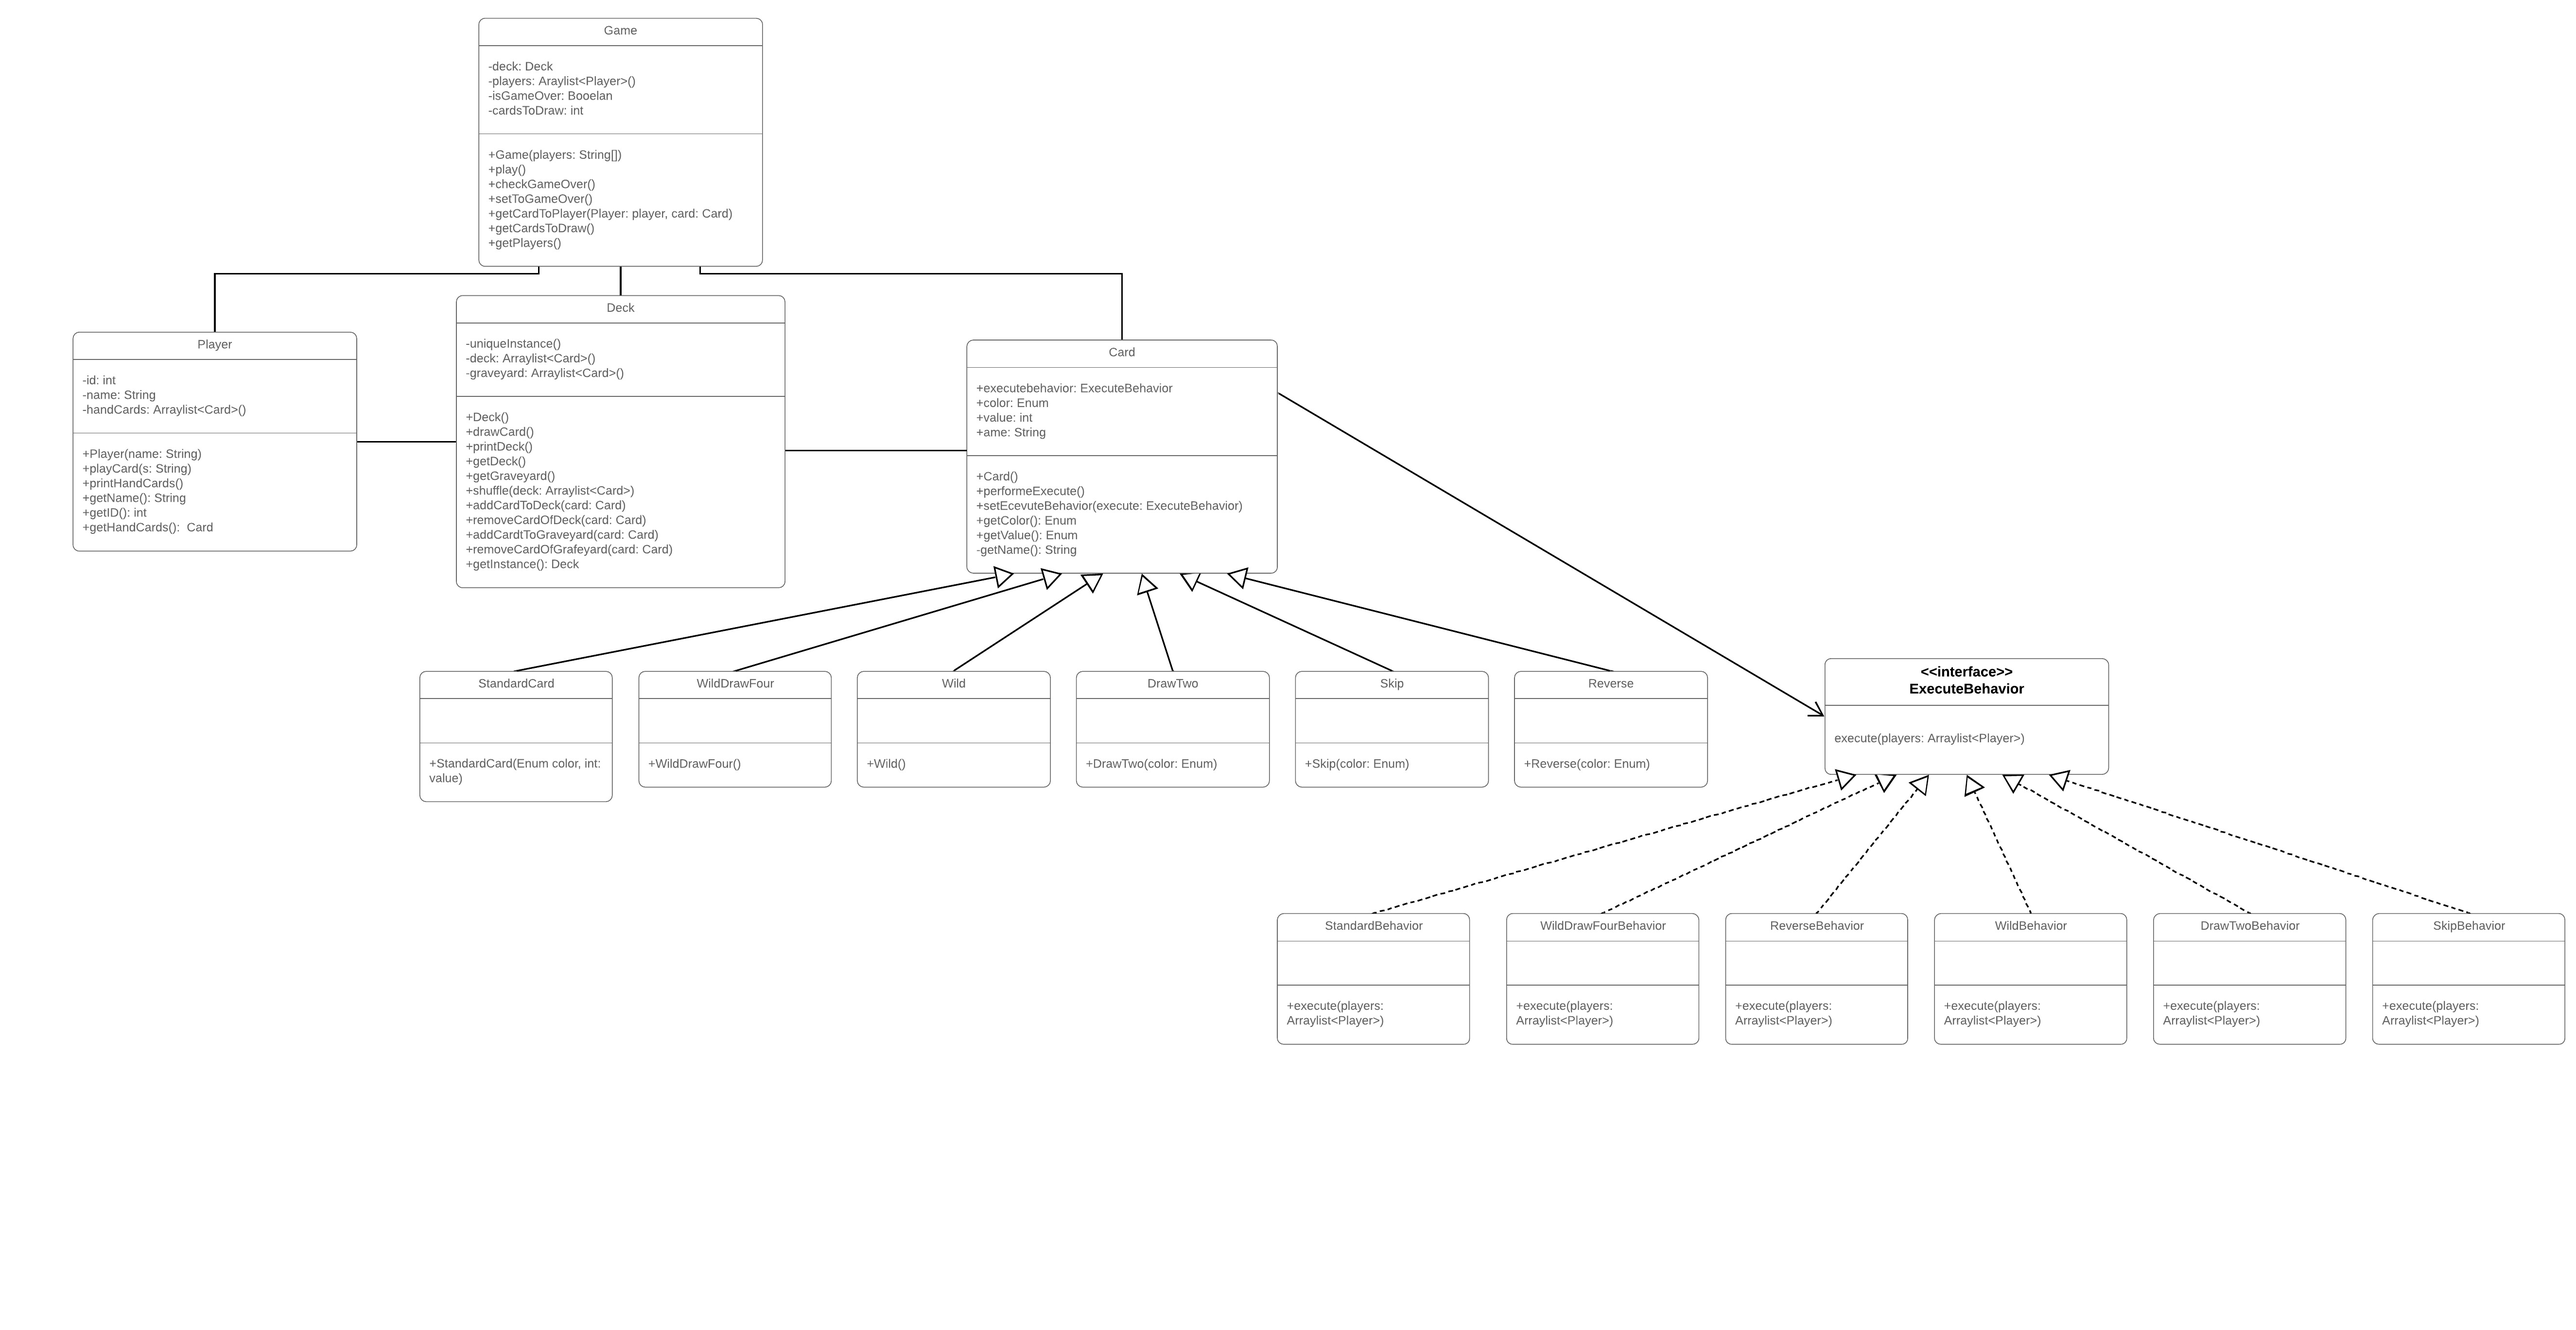
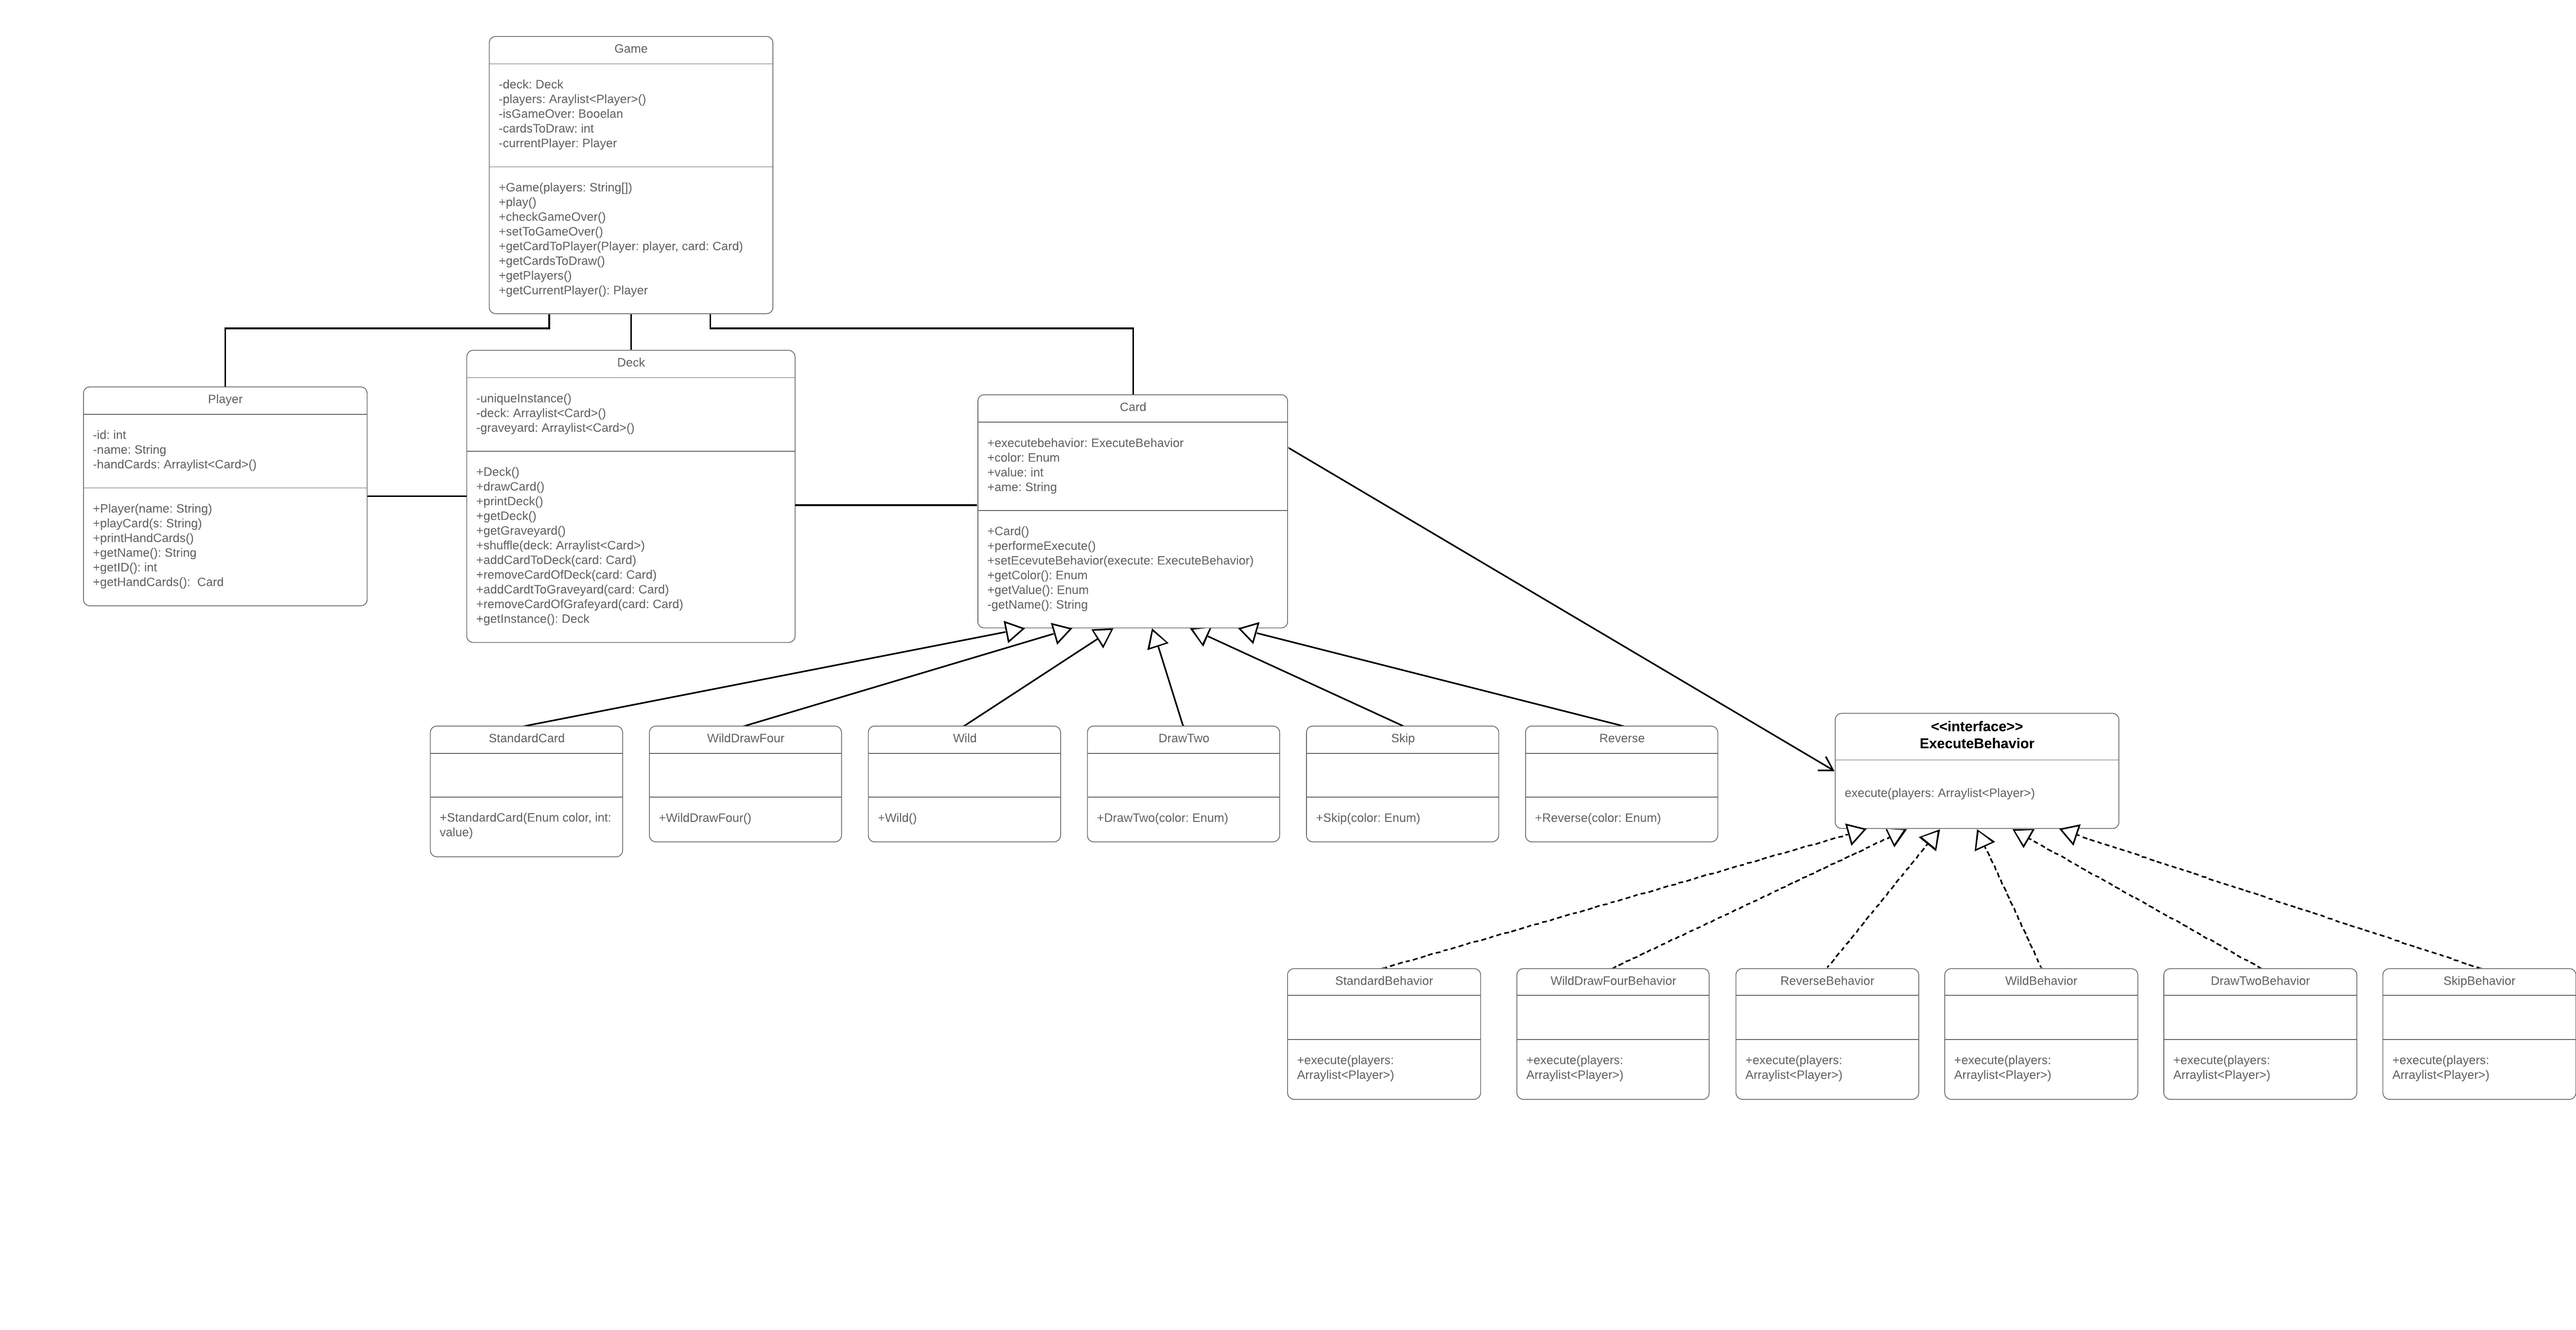
added Skip card test, updated the class diagram and added javadocs

diff --git a/Assignment5/Part3-uno/src/test/ut/uno/PlayerTest.java b/Assignment5/Part3-uno/src/test/ut/uno/PlayerTest.java
@@ -8,7 +8,7 @@ public class PlayerTest {
     private static Player player1;
     private static Player player2;
 
-    enum Color{Blue, Yellow, Green, Red, Black}
+    enum Color{blue, yellow, green, red, black}
 
     @BeforeClass
     public static void setUp() {
@@ -49,7 +49,7 @@ public class PlayerTest {
     @Test
     public void testPlayCard() {
         Deck d = new Deck();
-        StandardCard standardCard = new StandardCard(Color.Red, 7);
+        StandardCard standardCard = new StandardCard(Color.red, 7);
         d.addCardToDeck(standardCard);
         d.getCardToPlayer();
         player1.playCard("R7");
@@ -61,7 +61,7 @@ public class PlayerTest {
      */
     @Test
     public void testGetHandCards() {
-        StandardCard standardCard = new StandardCard(Color.Red, 7);
+        StandardCard standardCard = new StandardCard(Color.red, 7);
         Wild wild = new Wild();
         player1.handCards.add(standardCard);
         player1.handCards.add(wild);

diff --git a/Assignment5/Part3-uno/src/test/ut/uno/WildDrawFourTest.java b/Assignment5/Part3-uno/src/test/ut/uno/WildDrawFourTest.java
@@ -6,24 +6,27 @@ import org.junit.BeforeClass;
 import org.junit.Test;
 
 public class WildDrawFourTest {
-    enum Color{black,yellow,red,blue}
+    enum Color{black,yellow,red,blue, green}
     int cardValue = 4;
     private Card card;
     private static Player player1;
     private static Player player2;
-    String[] player = {"Bubbles", "Thomas", "Spongebob", "Thanos" };
+    String[] players = {"Bubbles", "Thomas", "Spongebob", "Thanos" };
     private Game game;
     char flag = 'n';
 
 
     @BeforeClass
     public void setUp() {
-        game = new Game();
+        game = new Game(players);
         player1 = game.getPlayers().get(0);
     }
 
+    /**
+     * Checks, if the behavior of the WildDrawTwo card works as expected
+     */
     @Test
-    public void WildDrawFourTest(){
+    public void testWildDrawFour(){
 
         for(Card card:player1.getHandCards()){
             if(card.getColor().isEqual(Color.black.toString()) && card.getValue()){

diff --git a/Assignment5/Part3-uno/src/test/ut/uno/StandardCardTest.java b/Assignment5/Part3-uno/src/test/ut/uno/StandardCardTest.java
@@ -1,0 +1,30 @@
+package test.ut.uno;
+
+import org.junit.Assert;
+import org.junit.Test;
+
+public class StandardCardTest {
+    enum Color{black,yellow,red,blue}
+    private int cardValue = 5;
+    private Card card = new Card(Color.yellow,cardValue);
+
+
+    /**
+     * The method checks the functionality of the color attribute of the StandardCard class
+     */
+    @Test
+    public void testGetColor(){
+        Assert.assertSame("get Color method is wrong", "yellow ", card.getColor.toString );
+    }
+
+    /**
+     * The method checks the functionality of the value attribute of the StandardCard class
+     */
+    @Test
+    public void testGetValue(){
+        Assert.assertSame("get Value method is wrong",5,card.getValue() );
+
+
+    }
+}
+

diff --git a/Assignment5/Part3-uno/src/test/ut/uno/SkipTest.java b/Assignment5/Part3-uno/src/test/ut/uno/SkipTest.java
@@ -1,0 +1,28 @@
+package test.ut.uno;
+
+import org.junit.Assert;
+import org.junit.BeforeClass;
+import org.junit.Test;
+
+public class SkipTest {
+    enum Color{black,yellow,red,blue,green}
+    private Skip skip;
+    private Game game;
+    String[] players = {"Bubbles", "Thomas", "Spongebob", "Thanos" };
+
+    @BeforeClass
+    public void setUp() {
+        game = new Game(players);
+        skip = new Skip();
+    }
+
+    /**
+     * Checks the functionality of the Skip card
+     */
+    @Test
+    public void testSkip() {
+        skip.performExecute();
+        Assert.assertTrue("Failed to skip player 2", game.getCurrentPlayer().getID() == 2);
+
+    }
+}

diff --git a/Assignment5/Part3-uno/src/test/ut/uno/DrawTwoTest.java b/Assignment5/Part3-uno/src/test/ut/uno/DrawTwoTest.java
@@ -6,7 +6,7 @@ import org.junit.Test;
 
 public class DrawTwoTest {
 
-    enum Color{black,yellow,red,blue}
+    enum Color{black,yellow,red,blue, green}
     int cardValue = 4;
     private Card cardIni;
     private DrawTwo drawTwo;
@@ -23,10 +23,11 @@ public class DrawTwoTest {
         player1 = game.getPlayers().get(0);
     }
 
-
-
+    /**
+     * Checks, if the behavior of the DrawTwo card works as expected
+     */
     @Test
-    public void WildDrawTwoTest(){
+    public void testDrawTwo(){
 
         for(Card card:player1.getHandCards()){
             if(card instanceof DrawTwo){
